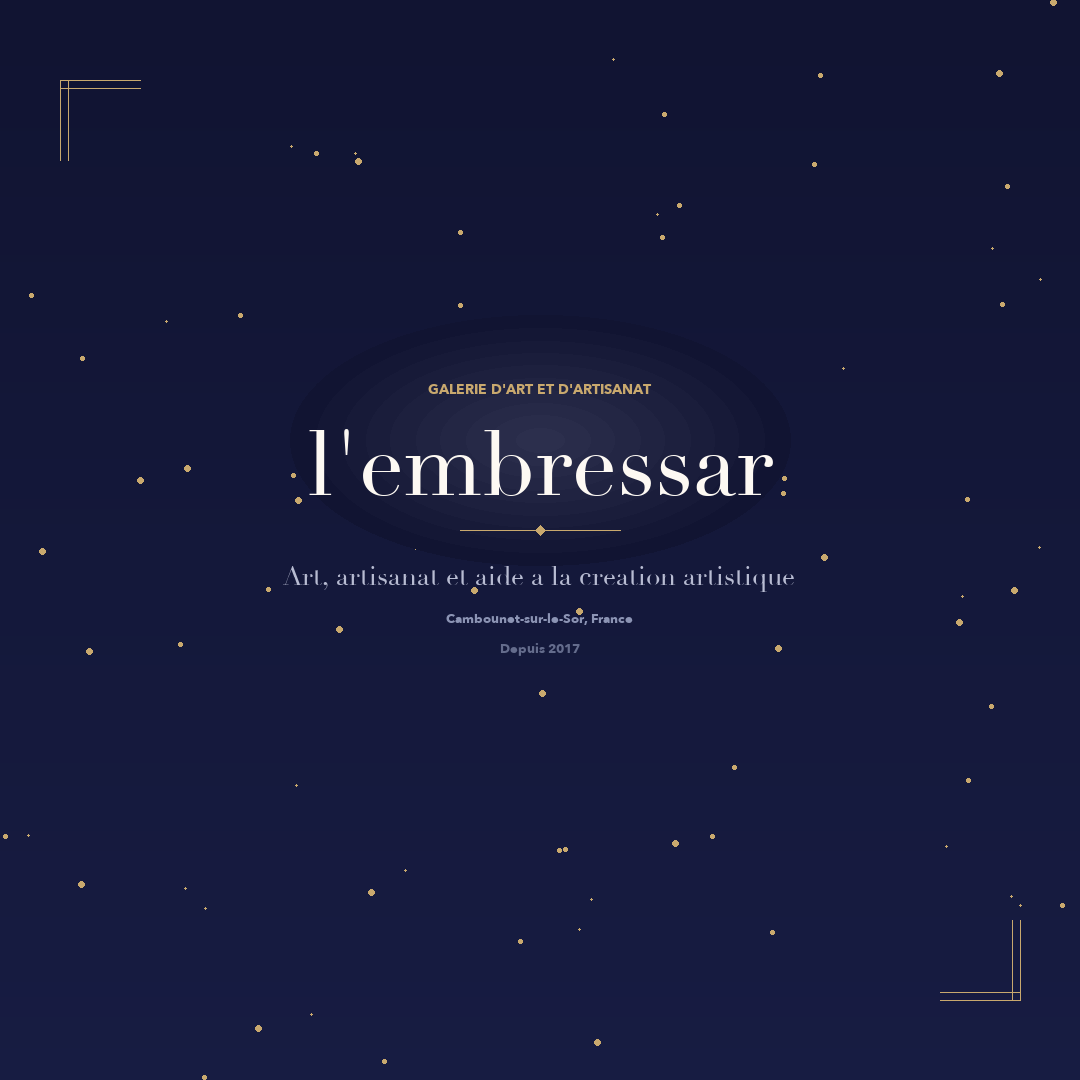
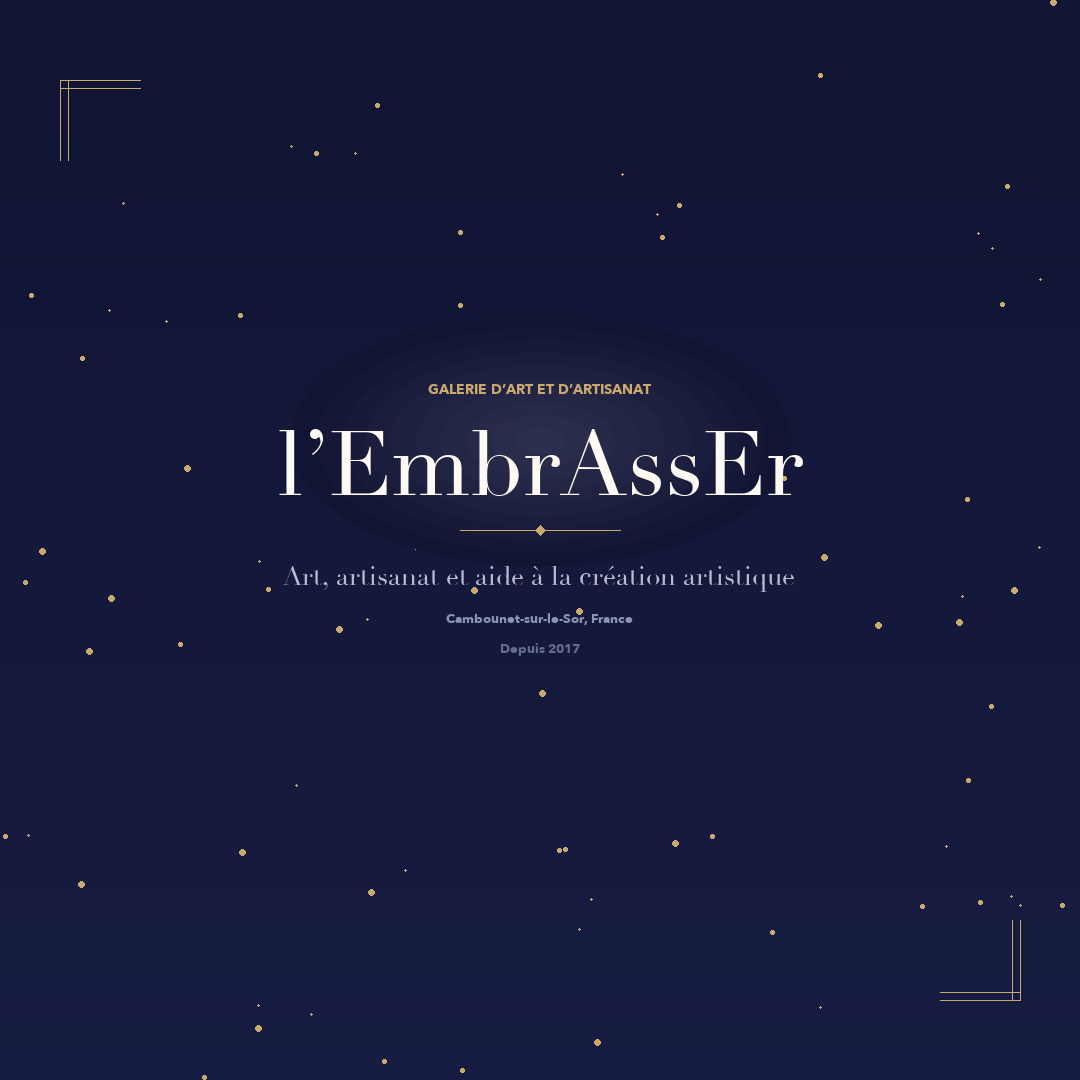
fix(brand): Update name to L'EmbrAssEr with smart apostrophe
Corrected brand capitalization per owner feedback and replaced
straight apostrophe with smart apostrophe (U+2019) across all
components, meta tags, and OG/social images.

Changed region(s): [[0.2444, 0.3972, 0.7333, 0.4583]]

diff --git a/index.html b/index.html
@@ -4,9 +4,9 @@
     <meta charset="UTF-8" />
     <link rel="icon" type="image/svg+xml" href="/favicon.svg" />
     <meta name="viewport" content="width=device-width, initial-scale=1.0" />
-    <title>L'Embressar - Galerie d'Art et d'Artisanat</title>
-    <meta name="description" content="L'Embressar - Art gallery and artisan craft shop in Cambounet-sur-le-Sor, France. Fine art, handcrafted objects, and artistic creation assistance since 2017." />
-    <meta property="og:title" content="L'Embressar - Galerie d'Art et d'Artisanat" />
+    <title>L&#8217;EmbrAssEr - Galerie d'Art et d'Artisanat</title>
+    <meta name="description" content="L&#8217;EmbrAssEr - Art gallery and artisan craft shop in Cambounet-sur-le-Sor, France. Fine art, handcrafted objects, and artistic creation assistance since 2017." />
+    <meta property="og:title" content="L&#8217;EmbrAssEr - Galerie d'Art et d'Artisanat" />
     <meta property="og:description" content="Art gallery and artisan craft shop. Fine art, handcrafted objects, and artistic creation assistance." />
     <meta property="og:type" content="website" />
     <meta property="og:url" content="https://lembressar.com" />
@@ -14,7 +14,7 @@
     <meta property="og:image:width" content="1200" />
     <meta property="og:image:height" content="630" />
     <meta name="twitter:card" content="summary_large_image" />
-    <meta name="twitter:title" content="L'Embressar - Galerie d'Art et d'Artisanat" />
+    <meta name="twitter:title" content="L&#8217;EmbrAssEr - Galerie d'Art et d'Artisanat" />
     <meta name="twitter:description" content="Art gallery and artisan craft shop. Fine art, handcrafted objects, and artistic creation assistance." />
     <meta name="twitter:image" content="https://lembressar.com/og-image.png" />
     <link rel="preconnect" href="https://fonts.googleapis.com" />

diff --git a/src/components/About.jsx b/src/components/About.jsx
@@ -14,7 +14,7 @@ export default function About() {
             <div className="section-divider !mx-0 mb-8" />
             <div className="space-y-5 text-navy-600 leading-relaxed">
               <p>
-                L'Embressar est une galerie ou chaque oeuvre raconte une histoire. Nous
+                L{'\u2019'}EmbrAssEr est une galerie ou chaque oeuvre raconte une histoire. Nous
                 selectionnons des artistes et des artisans dont le travail reflète une
                 authenticite profonde et un savoir-faire exceptionnel.
               </p>
@@ -25,7 +25,7 @@ export default function About() {
                 la reproduction de leurs oeuvres.
               </p>
               <p>
-                Fondee en 2017, L'Embressar collabore activement avec des galeries au Japon
+                Fondee en 2017, L{'\u2019'}EmbrAssEr collabore activement avec des galeries au Japon
                 et en Europe, ouvrant des ponts entre les cultures et les sensibilites
                 artistiques.
               </p>

diff --git a/src/components/Footer.jsx b/src/components/Footer.jsx
@@ -6,7 +6,7 @@ export default function Footer() {
           {/* Brand */}
           <div>
             <h3 className="font-serif text-2xl text-cream-100 tracking-widest-plus mb-4">
-              l'embressar
+              l{'\u2019'}EmbrAssEr
             </h3>
             <p className="text-navy-300 text-sm leading-relaxed">
               Galerie d'art et d'artisanat.<br />
@@ -80,7 +80,7 @@ export default function Footer() {
 
         <div className="border-t border-navy-700 pt-8 text-center">
           <p className="text-navy-500 text-xs tracking-widest-plus">
-            &copy; {new Date().getFullYear()} L'Embressar. Tous droits reserves.
+            &copy; {new Date().getFullYear()} L{'\u2019'}EmbrAssEr. Tous droits reserves.
           </p>
         </div>
       </div>

diff --git a/src/components/Visit.jsx b/src/components/Visit.jsx
@@ -7,7 +7,7 @@ export default function Visit() {
           <div className="fade-in order-2 md:order-1">
             <div className="bg-navy-100 rounded-sm overflow-hidden" style={{ height: '400px' }}>
               <iframe
-                title="L'Embressar location"
+                title={`L\u2019EmbrAssEr location`}
                 src="https://www.google.com/maps/embed?pb=!1m18!1m12!1m3!1d2867.6!2d2.1!3d43.55!2m3!1f0!2f0!3f0!3m2!1i1024!2i768!4f13.1!3m3!1m2!1s0x0%3A0x0!2s57+Chem.+de+la+M%C3%A9tairie+Haute%2C+81580+Cambounet-sur-le-Sor%2C+France!5e0!3m2!1sfr!2sfr!4v1"
                 width="100%"
                 height="100%"

diff --git a/src/components/Hero.jsx b/src/components/Hero.jsx
@@ -17,7 +17,7 @@ export default function Hero() {
           Galerie d'Art et d'Artisanat
         </p>
         <h1 className="font-serif text-5xl md:text-7xl lg:text-8xl text-white font-light leading-tight mb-6">
-          l'embressar
+          l{'\u2019'}EmbrAssEr
         </h1>
         <div className="w-16 h-px bg-gold-400 mx-auto mb-6" />
         <p className="font-serif text-lg md:text-xl text-cream-200 italic leading-relaxed mb-10 max-w-xl mx-auto">

diff --git a/src/components/Header.jsx b/src/components/Header.jsx
@@ -33,7 +33,7 @@ export default function Header() {
               scrolled ? 'text-navy-700' : 'text-white'
             }`}
           >
-            l'embressar
+            l{'\u2019'}EmbrAssEr
           </span>
         </a>
 
